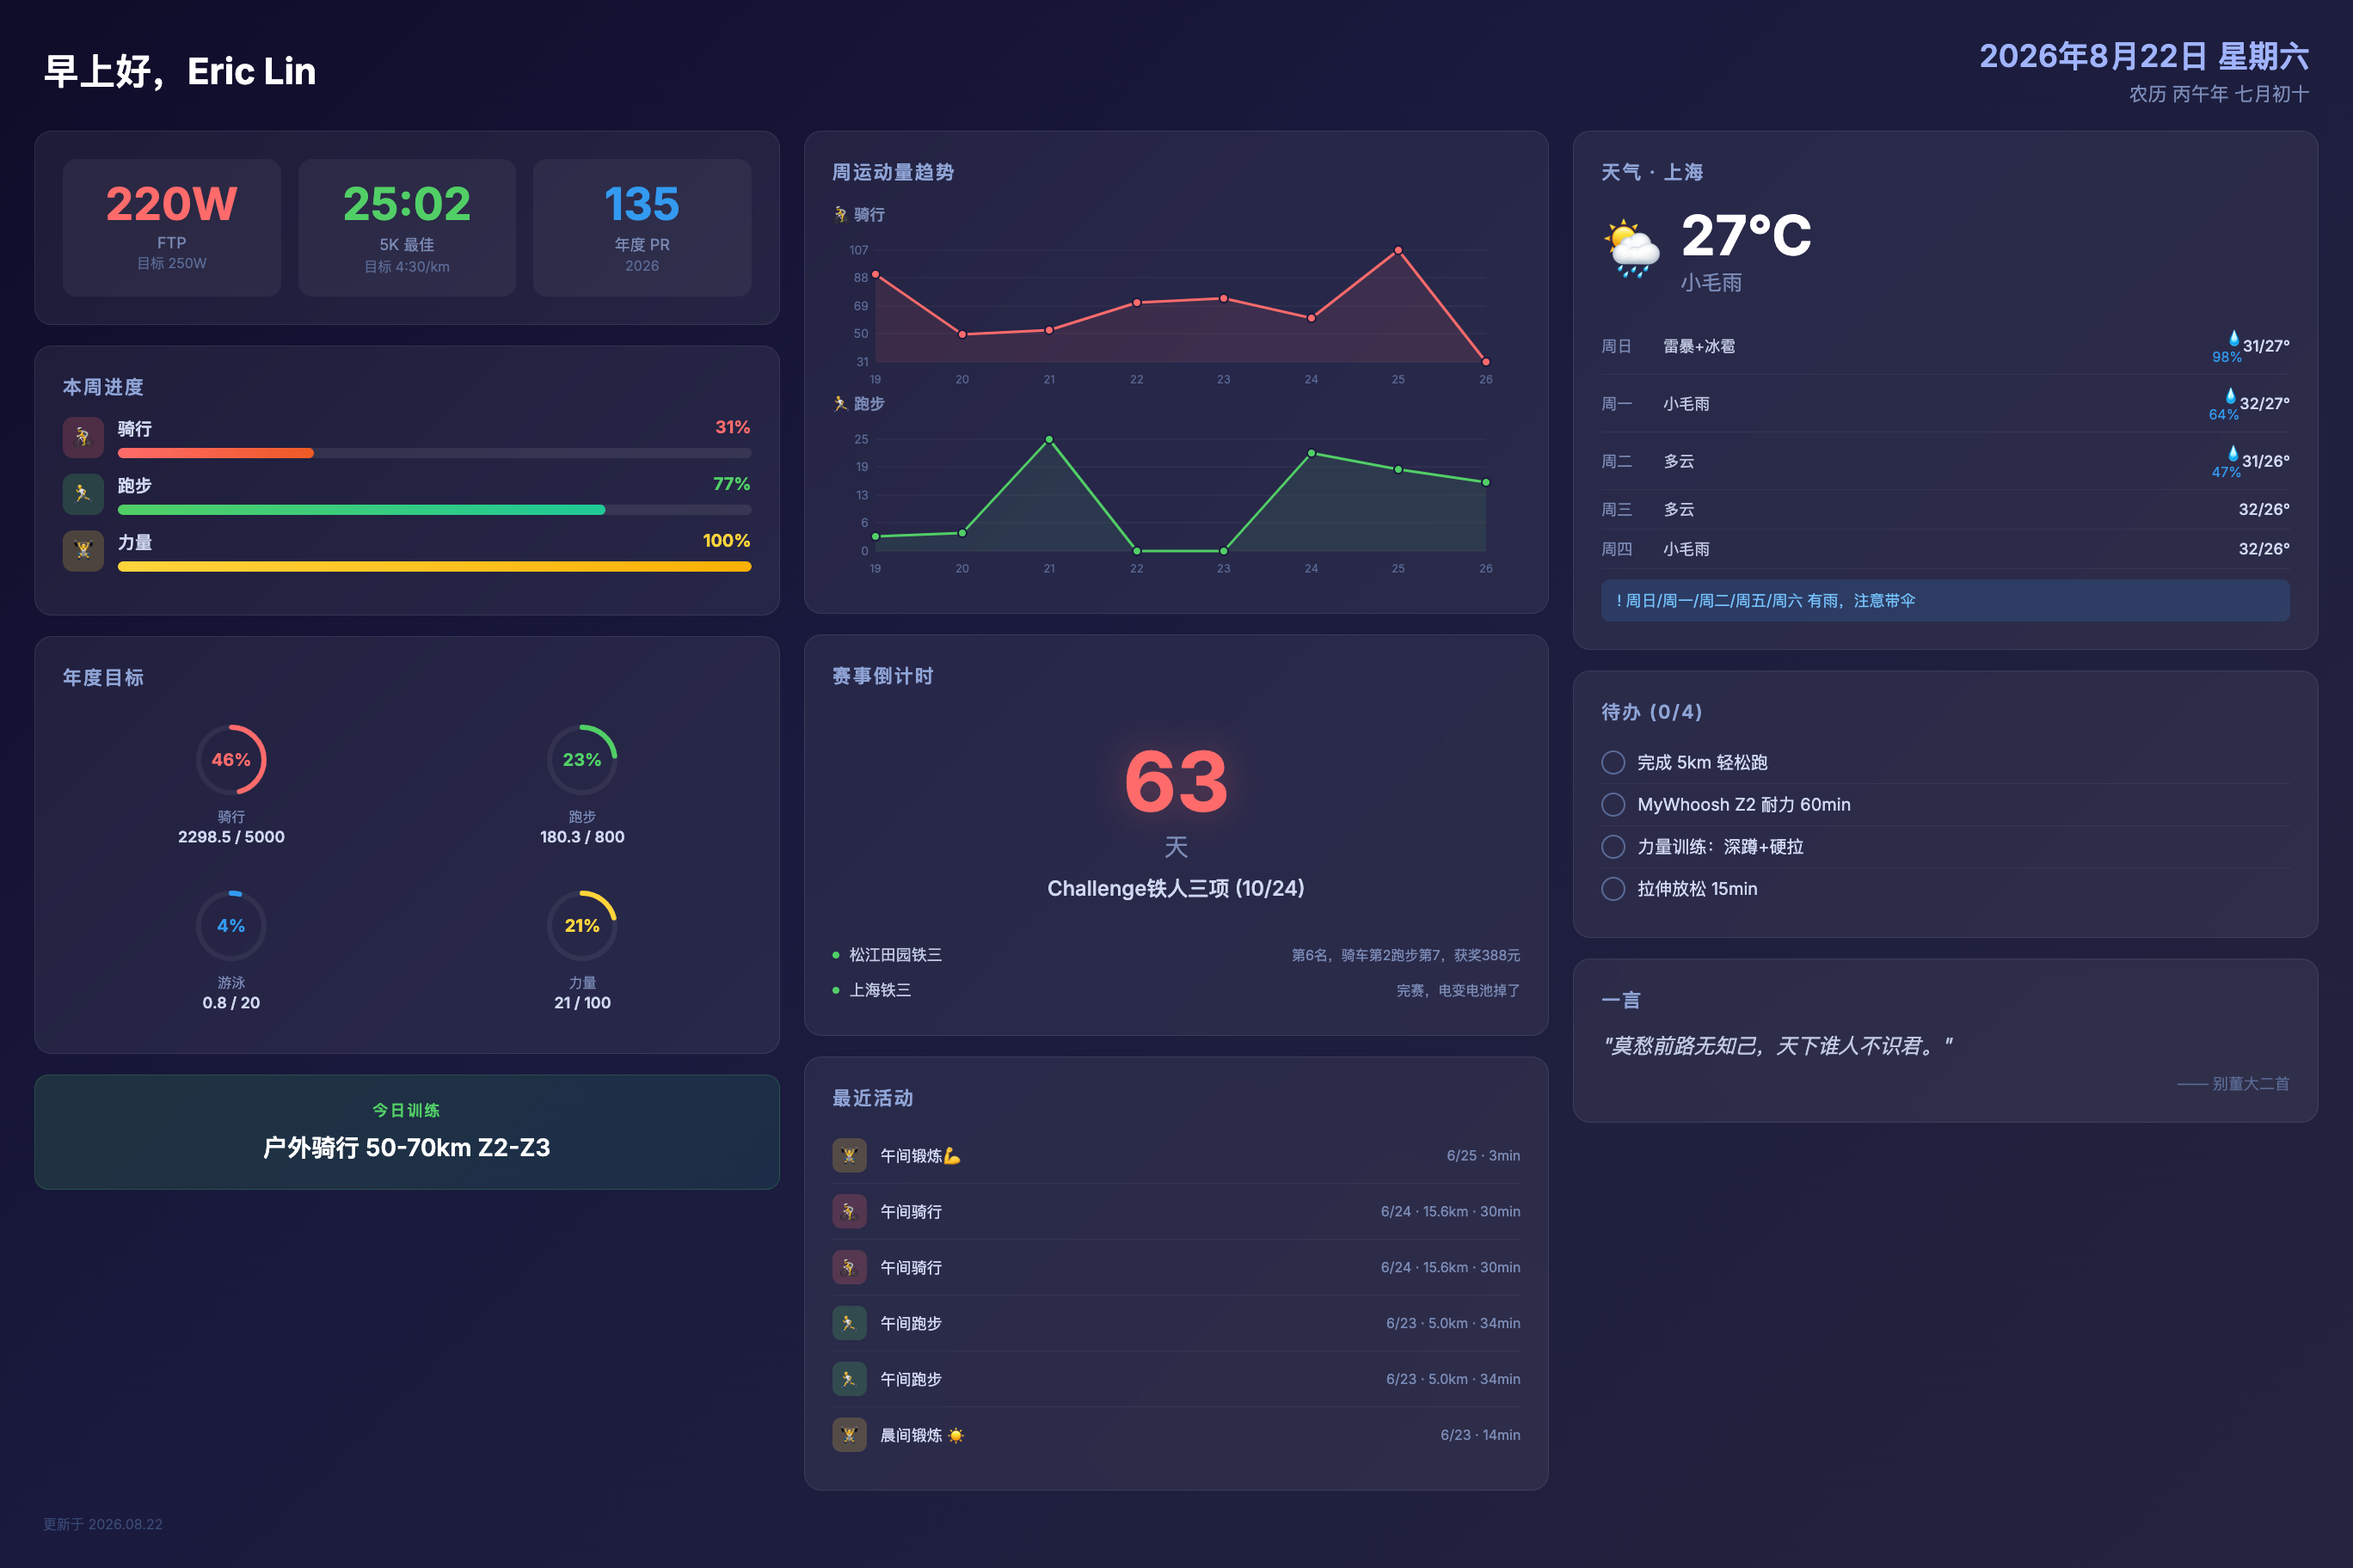
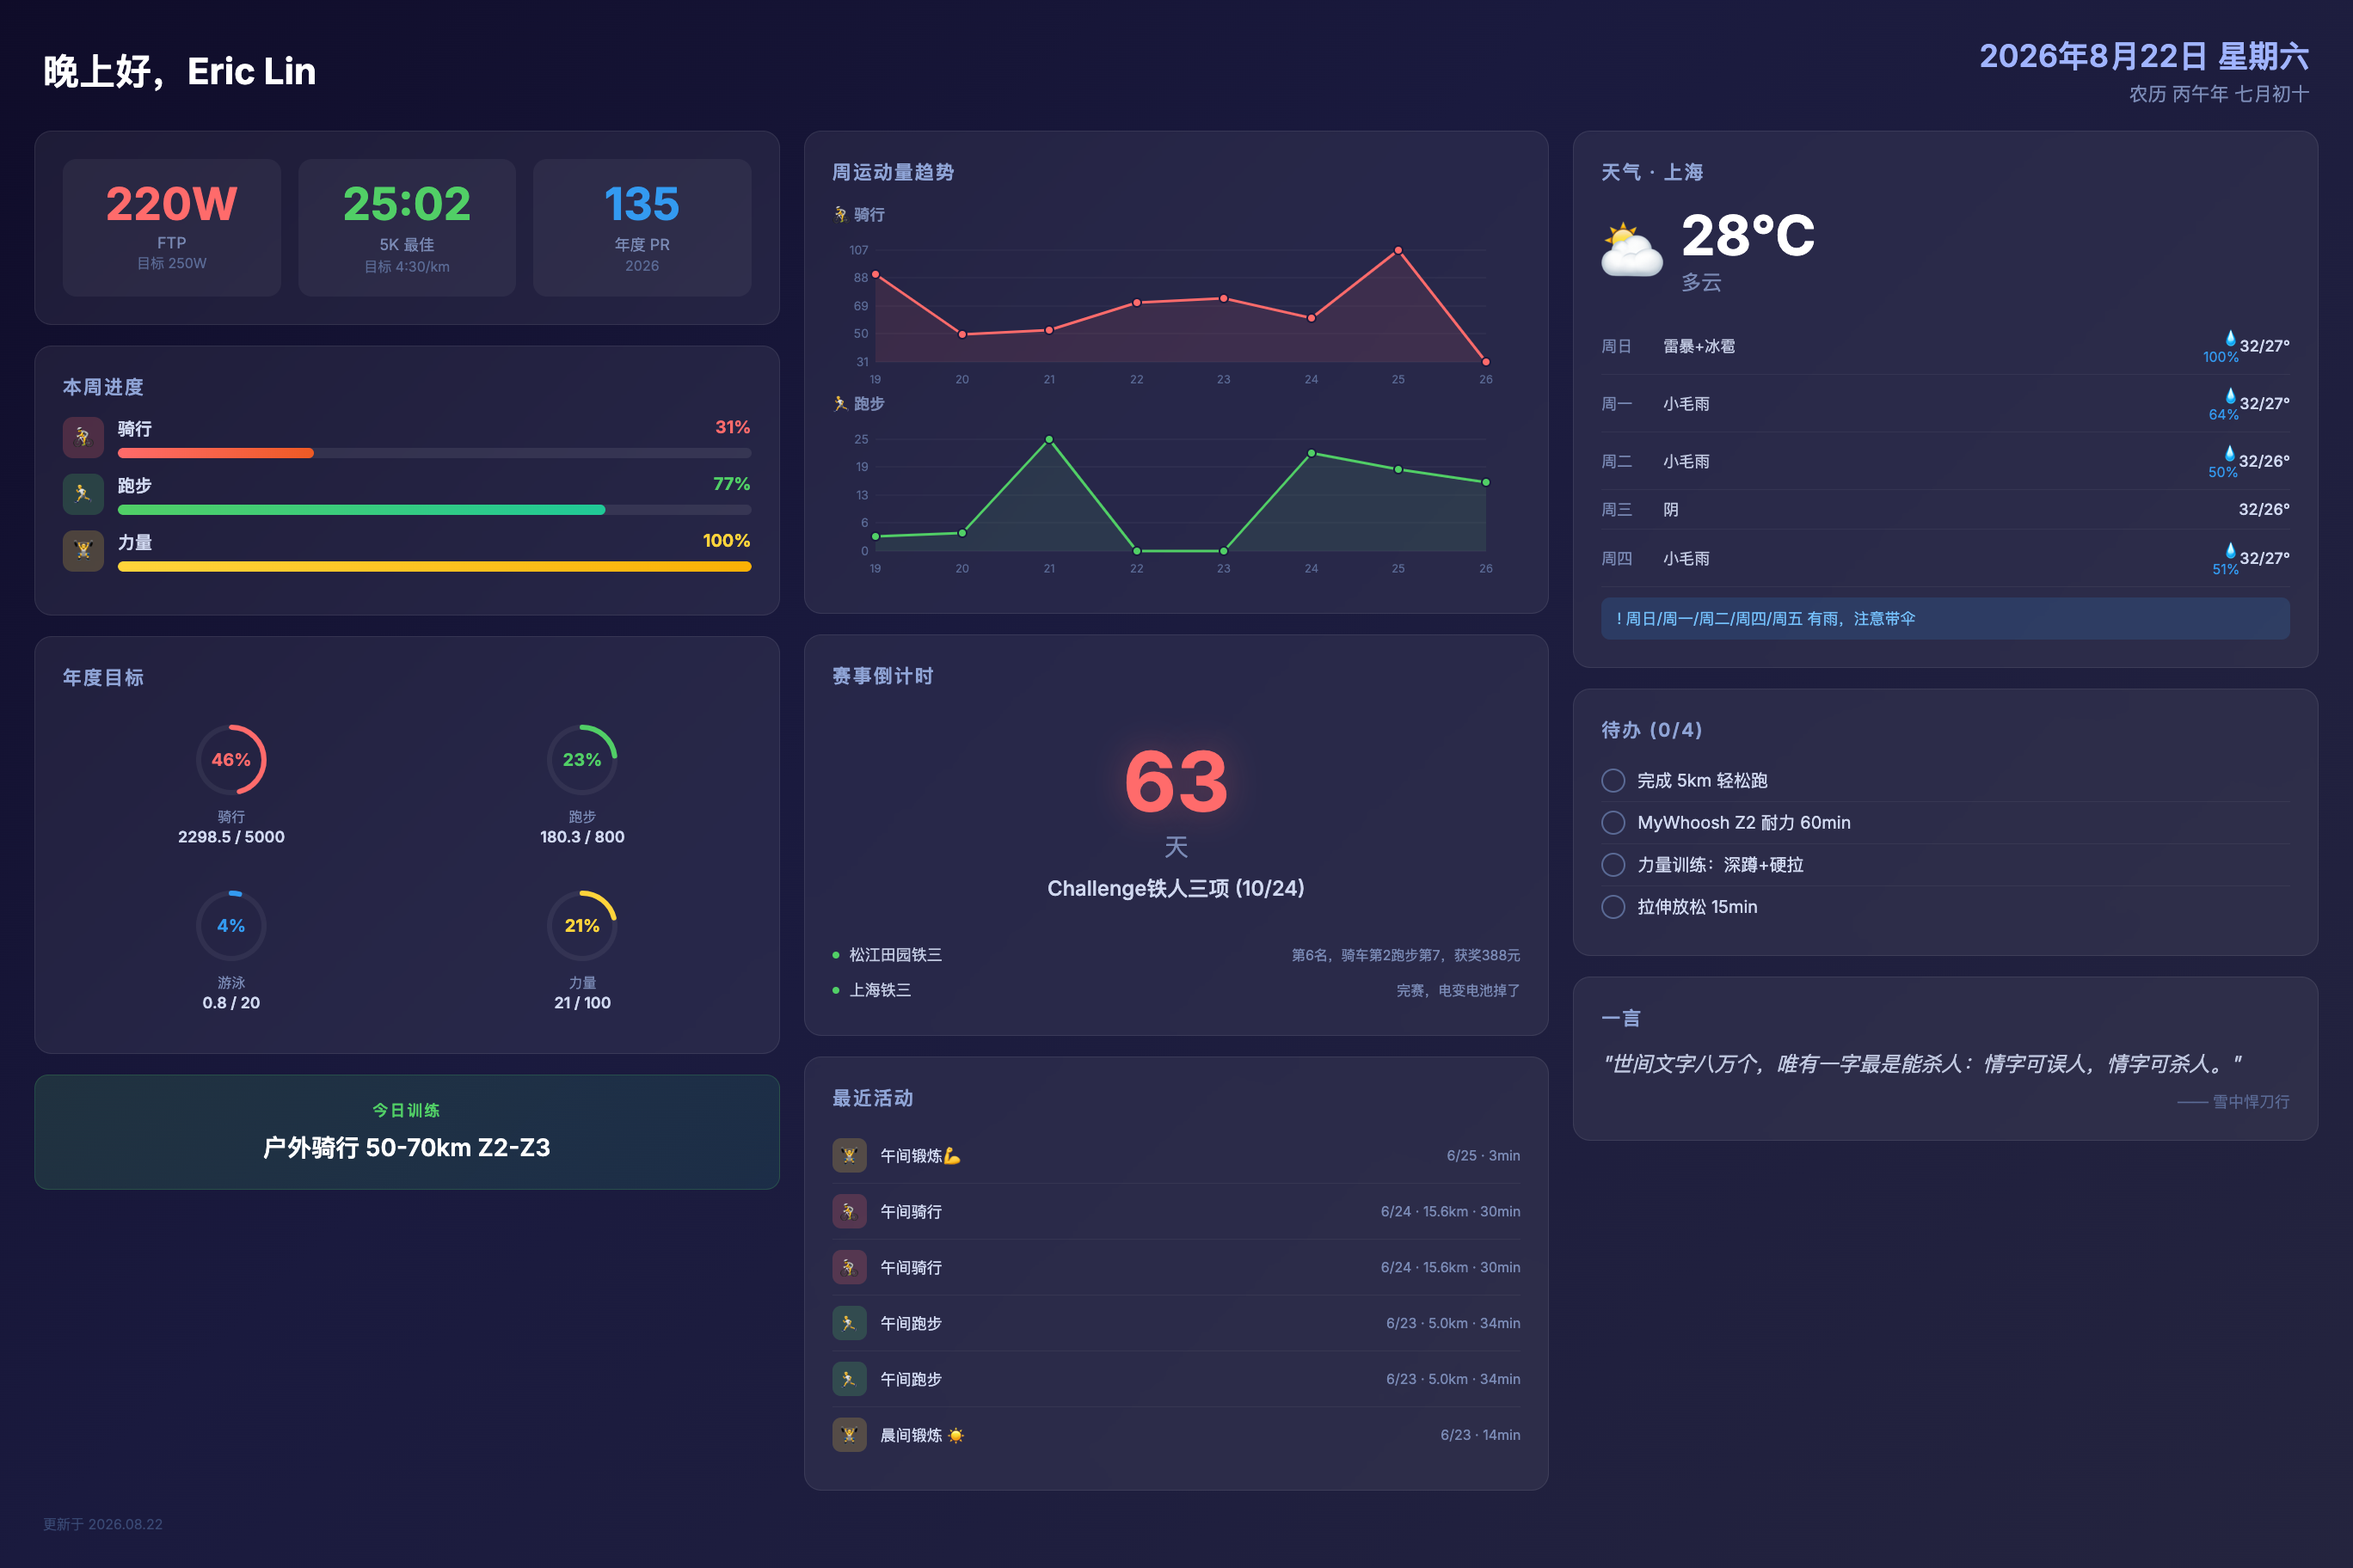
deploy: 2026-08-22-20:00

diff --git a/screensaver.html b/screensaver.html
@@ -490,7 +490,7 @@ html, body {
 <!-- ===== TOP BAR ===== -->
 <div class="top-bar">
   <div>
-    <div class="greeting">早上好，Eric Lin</div>
+    <div class="greeting">晚上好，Eric Lin</div>
     
   </div>
   <div class="date-info">
@@ -808,10 +808,10 @@ html, body {
   <div class="card">
     <div class="card-title">天气 · 上海</div>
     <div class="weather-current">
-      <div class="weather-icon-big">🌦</div>
+      <div class="weather-icon-big">⛅</div>
       <div>
-        <div class="weather-temp-big">27°C</div>
-        <div class="weather-desc">小毛雨</div>
+        <div class="weather-temp-big">28°C</div>
+        <div class="weather-desc">多云</div>
       </div>
     </div>
     
@@ -819,8 +819,8 @@ html, body {
     <div class="forecast-row">
       <div class="forecast-day">周日</div>
       <div class="forecast-desc">雷暴+冰雹</div>
-      <div class="forecast-precip">💧98%</div>
-      <div class="forecast-range">31/27°</div>
+      <div class="forecast-precip">💧100%</div>
+      <div class="forecast-range">32/27°</div>
     </div>
     
     <div class="forecast-row">
@@ -832,14 +832,14 @@ html, body {
     
     <div class="forecast-row">
       <div class="forecast-day">周二</div>
-      <div class="forecast-desc">多云</div>
-      <div class="forecast-precip">💧47%</div>
-      <div class="forecast-range">31/26°</div>
+      <div class="forecast-desc">小毛雨</div>
+      <div class="forecast-precip">💧50%</div>
+      <div class="forecast-range">32/26°</div>
     </div>
     
     <div class="forecast-row">
       <div class="forecast-day">周三</div>
-      <div class="forecast-desc">多云</div>
+      <div class="forecast-desc">阴</div>
       <div class="forecast-precip"></div>
       <div class="forecast-range">32/26°</div>
     </div>
@@ -847,13 +847,13 @@ html, body {
     <div class="forecast-row">
       <div class="forecast-day">周四</div>
       <div class="forecast-desc">小毛雨</div>
-      <div class="forecast-precip"></div>
-      <div class="forecast-range">32/26°</div>
+      <div class="forecast-precip">💧51%</div>
+      <div class="forecast-range">32/27°</div>
     </div>
     
     
     
-    <div class="rain-alert">! 周日/周一/周二/周五/周六 有雨，注意带伞</div>
+    <div class="rain-alert">! 周日/周一/周二/周四/周五 有雨，注意带伞</div>
     
   </div>
   
@@ -902,9 +902,9 @@ html, body {
   
   <div class="card">
     <div class="card-title">一言</div>
-    <div class="quote-text">"莫愁前路无知己，天下谁人不识君。"</div>
+    <div class="quote-text">"世间文字八万个，唯有一字最是能杀人：情字可误人，情字可杀人。"</div>
     
-    <div class="quote-from">—— 别董大二首</div>
+    <div class="quote-from">—— 雪中悍刀行</div>
     
   </div>
   

diff --git a/life.html b/life.html
@@ -137,9 +137,9 @@ html, body {
   <p class="section-title">☀ 天气 · 上海</p>
   <table class="weather-table">
     <tr>
-      <td class="weather-icon">.</td>
-      <td class="weather-temp">27°C</td>
-      <td class="weather-desc">小毛雨</td>
+      <td class="weather-icon">~</td>
+      <td class="weather-temp">28°C</td>
+      <td class="weather-desc">多云</td>
     </tr>
   </table>
   
@@ -149,7 +149,7 @@ html, body {
       <td class="forecast-day">周日</td>
       <td class="forecast-icon">!</td>
       <td>雷暴+冰雹</td>
-      <td class="forecast-range">31/27°C</td>
+      <td class="forecast-range">32/27°C</td>
     </tr>
     
     <tr>
@@ -161,15 +161,15 @@ html, body {
     
     <tr>
       <td class="forecast-day">周二</td>
-      <td class="forecast-icon">~</td>
-      <td>多云</td>
-      <td class="forecast-range">31/26°C</td>
+      <td class="forecast-icon">.</td>
+      <td>小毛雨</td>
+      <td class="forecast-range">32/26°C</td>
     </tr>
     
     <tr>
       <td class="forecast-day">周三</td>
       <td class="forecast-icon">~</td>
-      <td>多云</td>
+      <td>阴</td>
       <td class="forecast-range">32/26°C</td>
     </tr>
     
@@ -177,27 +177,27 @@ html, body {
       <td class="forecast-day">周四</td>
       <td class="forecast-icon">.</td>
       <td>小毛雨</td>
-      <td class="forecast-range">32/26°C</td>
+      <td class="forecast-range">32/27°C</td>
     </tr>
     
     <tr>
       <td class="forecast-day">周五</td>
       <td class="forecast-icon">.</td>
       <td>小毛雨</td>
-      <td class="forecast-range">32/26°C</td>
+      <td class="forecast-range">33/27°C</td>
     </tr>
     
     <tr>
       <td class="forecast-day">周六</td>
-      <td class="forecast-icon">.</td>
-      <td>小毛雨</td>
+      <td class="forecast-icon">~</td>
+      <td>阴</td>
       <td class="forecast-range">34/27°C</td>
     </tr>
     
   </table>
   
   
-  <div class="rain-alert">! 周日/周一/周二/周五/周六 有雨，注意带伞</div>
+  <div class="rain-alert">! 周日/周一/周二/周四/周五 有雨，注意带伞</div>
   
 </div>
 
@@ -261,9 +261,9 @@ html, body {
 
 <div class="box">
   <p class="section-title">💬 一言</p>
-  <p class="quote-text">莫愁前路无知己，天下谁人不识君。</p>
+  <p class="quote-text">世间文字八万个，唯有一字最是能杀人：情字可误人，情字可杀人。</p>
   
-  <p class="quote-from">—— 别董大二首</p>
+  <p class="quote-from">—— 雪中悍刀行</p>
   
 </div>
 
